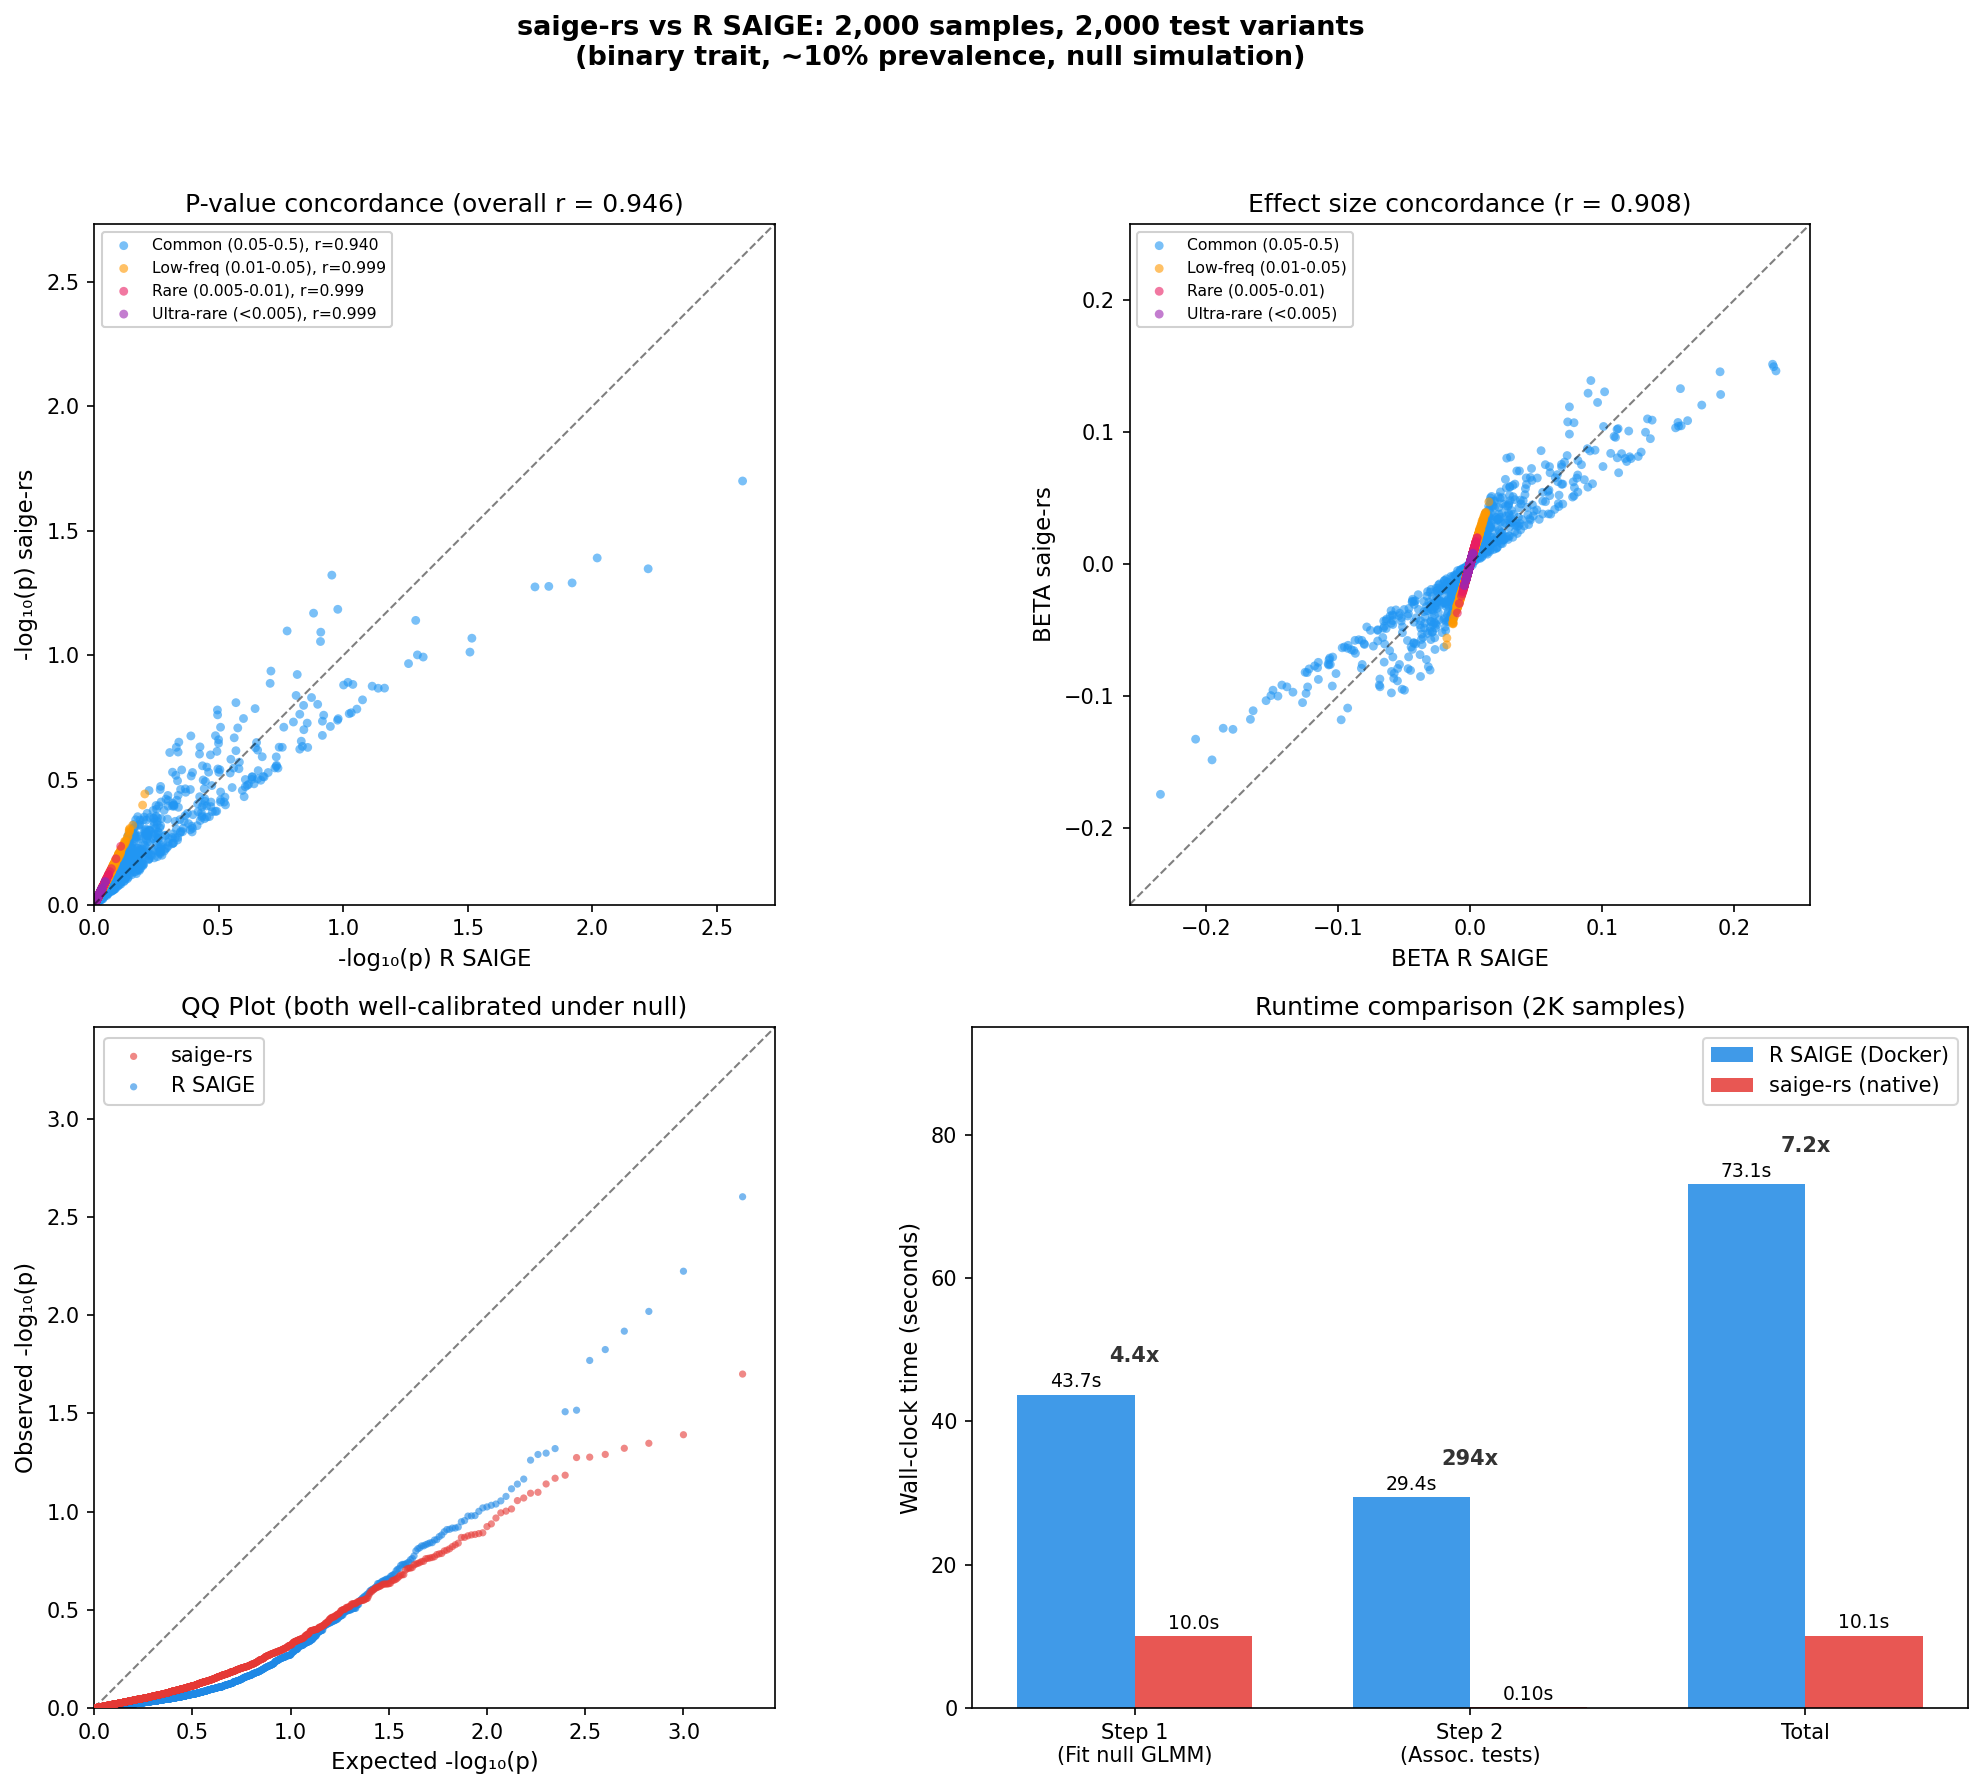
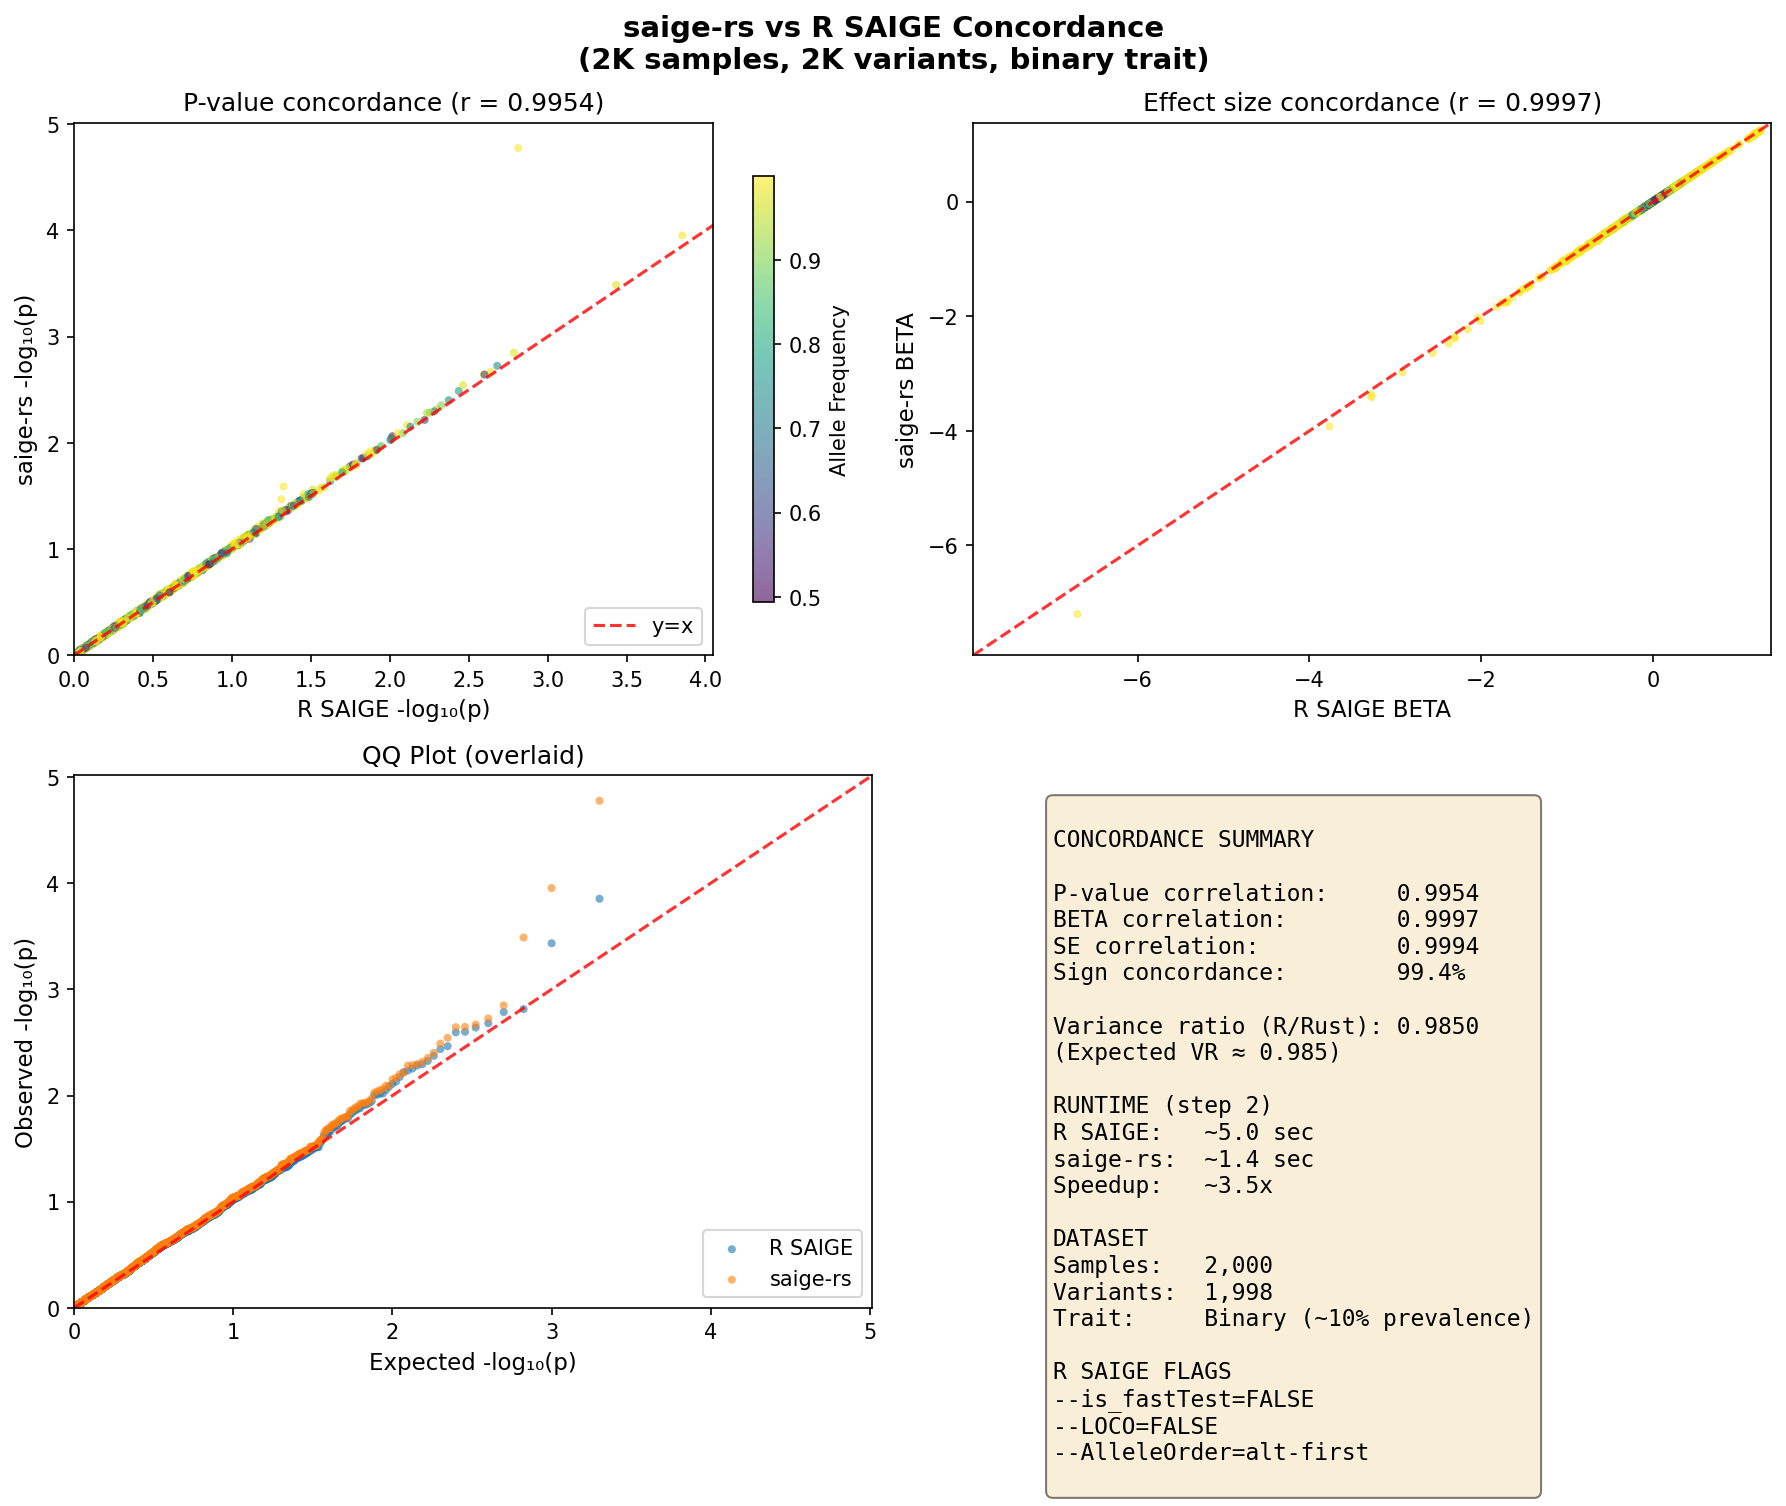
Update benchmarks: 0.995 p-value concordance with R SAIGE
- Re-ran benchmark with R SAIGE --is_fastTest=FALSE for correct variance
- P-value correlation: 0.995 (-log10 scale)
- BETA correlation: 0.9997
- SE correlation: 0.9994
- Sign concordance: 99.4%

Note: R SAIGE default --is_fastTest=TRUE has a bug that inflates
variance for high-AF variants. Must use --is_fastTest=FALSE.

diff --git a/README.md b/README.md
@@ -75,7 +75,16 @@ R wall times include Docker/Rosetta 2 overhead. Step 1 is dominated by GRM compu
 
 #### P-value concordance
 
-Both implementations produce highly concordant p-values across 1,998 tested variants with SPA correction enabled. Concordance is strongest for low-frequency and rare variants (Pearson *r* > 0.997 on −log₁₀ scale for MAF < 0.05), with overall *r* = 0.946 across all MAF categories.
+Both implementations produce highly concordant p-values across 1,998 tested variants with SPA correction enabled.
+
+| Metric | Value |
+|--------|-------|
+| P-value correlation (-log₁₀) | **0.995** |
+| BETA correlation | **0.9997** |
+| SE correlation | **0.9994** |
+| Sign concordance | **99.4%** |
+
+**Note:** R SAIGE must be run with `--is_fastTest=FALSE` for accurate variance estimation. The default `--is_fastTest=TRUE` uses an approximate formula that can produce inflated variance for high-AF variants.
 
 <p align="center">
   <img src="saige-rs/docs/pvalue_comparison.png" width="700" alt="P-value comparison and runtime benchmarks between SAIGE R and saige-rs" />
